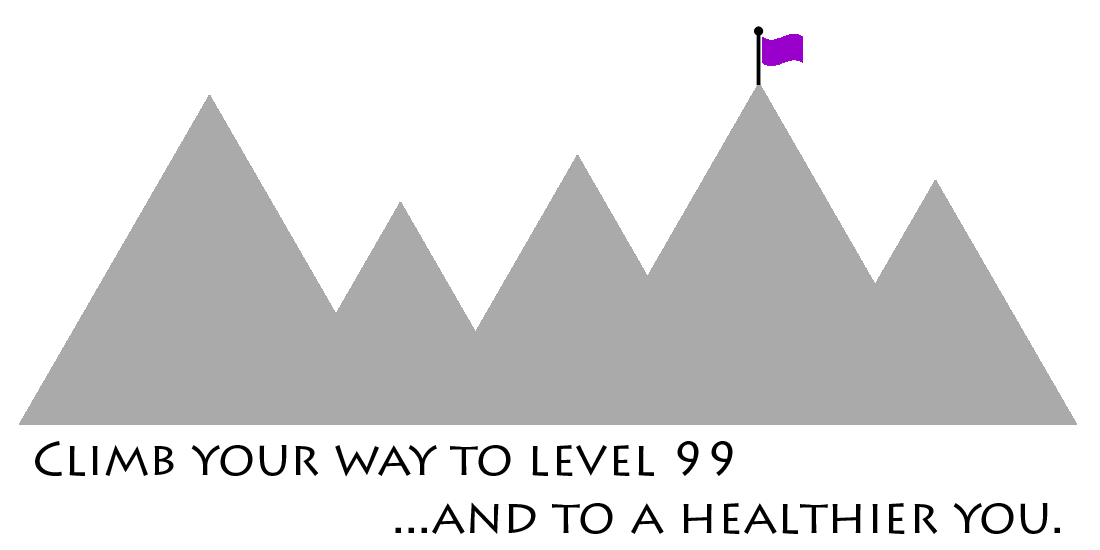
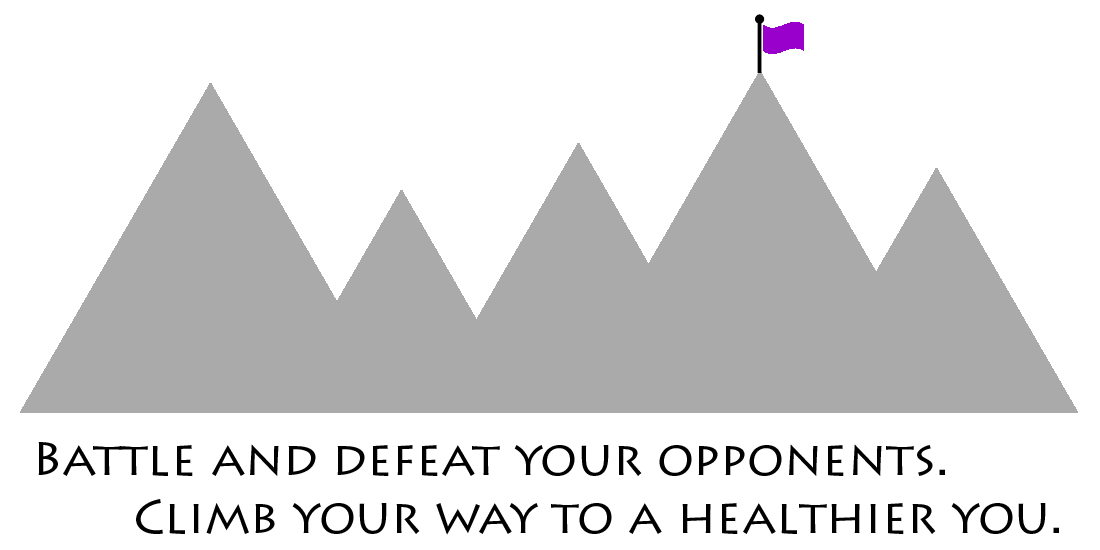
Finished landing page for now. Starting Battle page"

diff --git a/gymrpg/client/templates/home/home.html b/gymrpg/client/templates/home/home.html
@@ -1,13 +1,34 @@
 <template name="home">
   <div class="template-home">
-    <div class="page-header">
-      <img src="/images/mountains.png" />
-    </div>
+    <img src="/images/mountains.png" class="img-responsive" />
     <hr />
-    <h3><i class="fa fa-arrow-up purple"></i> Level Up! </h3>
-    <p>
-      Challenge your friends or random enemies in a match of physical activity and wellness. Battle for points and then use them to level up and get advantages in future matches. The higher the level you reach, the better you will feel. Reach level 99 and you'll unlock extra features and enjoy an ad-free experience.
-    </p>
+    <div class="row home-div">
+    	<div class="col-lg-12 col-md-12 col-sm-12 col-sx-12">
+	    	<center><h1><img src="/images/challenge-large.png" /> Battle </h1></center>
+	    	<p>
+		      Use your fitbit to challenge your friends or random enemies in a match of physical activity and wellness. Battle for points and then use them to level up and get advantages in future matches. Become victorious by reaching your step goal, staying active, and being prepared for whatever obstacles your opponent may throw at you!
+		    </p>
+		</div>
+	</div>
+	<hr />
+    <div class="row home-div">
+    	<div class="col-lg-12 col-md-12 col-sm-12 col-sx-12">
+	    	<center><h1><i class="fa fa-arrow-up purple"></i> Level Up! </h1></center>
+	    	<p>
+		      The more battles you win, the higher you will climb. Feel better and reach a healthy lifestyle by training in a fun and competitive way. Reach level 99 and you'll unlock extra features and enjoy an ad-free experience.
+		    </p>
+		</div>
+	</div>
+    <hr />
+    <div class="row home-div">
+    	<div class="col-lg-12 col-md-12 col-sm-12 col-sx-12">
+		    <center><h1><i class="fa fa-plus purple"></i> Strategize </h1></center>
+		    <p>
+		      Reaching higher levels will allow you to select power-ups or debuffs that you can use in later battles to give yourself an advantage when you need it. Use them wisely and catch your opponent off-guard for the win.
+		    </p>
+		</div>
+	</div>
+	<hr />
     <form>
     <button id="fitbitprofile">CLICK ME</button>
     </form>

diff --git a/gymrpg/client/templates/challenge/challenge.html b/gymrpg/client/templates/challenge/challenge.html
@@ -1,10 +1,26 @@
 <template name="challenge">
+	<div class="row btn-pad">
+		<center>
+		<div class="col-lg-12 col-md-12 col-sm-12 col-sx-12">		
+			<button class="btn btn-primary" href="#"><h3>Battle a Friend</h3></button>
+			<button class="btn btn-primary" href="#"><h3>Find Random Opponent</h3></button>
+		</div>
+		</center>
+	</div>
 	<div class="row">
 		<div class="col-lg-12 col-md-12 col-sm-12 col-sx-12">
-			<ul><h1> Your Current Battles: </h1>
-				<!-- Loop through users in current users "battle list" -->
-				<li> Start a new battle? </li>
-			</ul>
+			<div class="challenge-div">
+				<ul><h1> Your Current Battles: </h1>
+					<!-- Loop through users in current users "battle list" -->
+					<li> Start a new battle? </li>
+				</ul>
+			</div>
+		</div>
+		<div class="col-lg-12 col-md-12 col-sm-12 col-sx-12">
+			<div class="challenge-div">
+				<h1>Friends:</h1>
+			</div>
 		</div>
 	</div>
+
 </template>

diff --git a/gymrpg/client/stylesheets/base/style.less b/gymrpg/client/stylesheets/base/style.less
@@ -6,3 +6,20 @@
 .purple {
 	color: @purple;
 }
+
+.home-div {
+	padding-top: 50px;
+	padding-bottom: 50px;
+	padding-left: 150px;
+	padding-right: 150px;
+}
+.btn-pad {
+	padding-top: 50px;
+	margin: 0 auto;
+	padding-bottom: 50px;
+}
+
+.challenge-div {
+	background: #BCBCBC
+	padding: 20px;
+}
